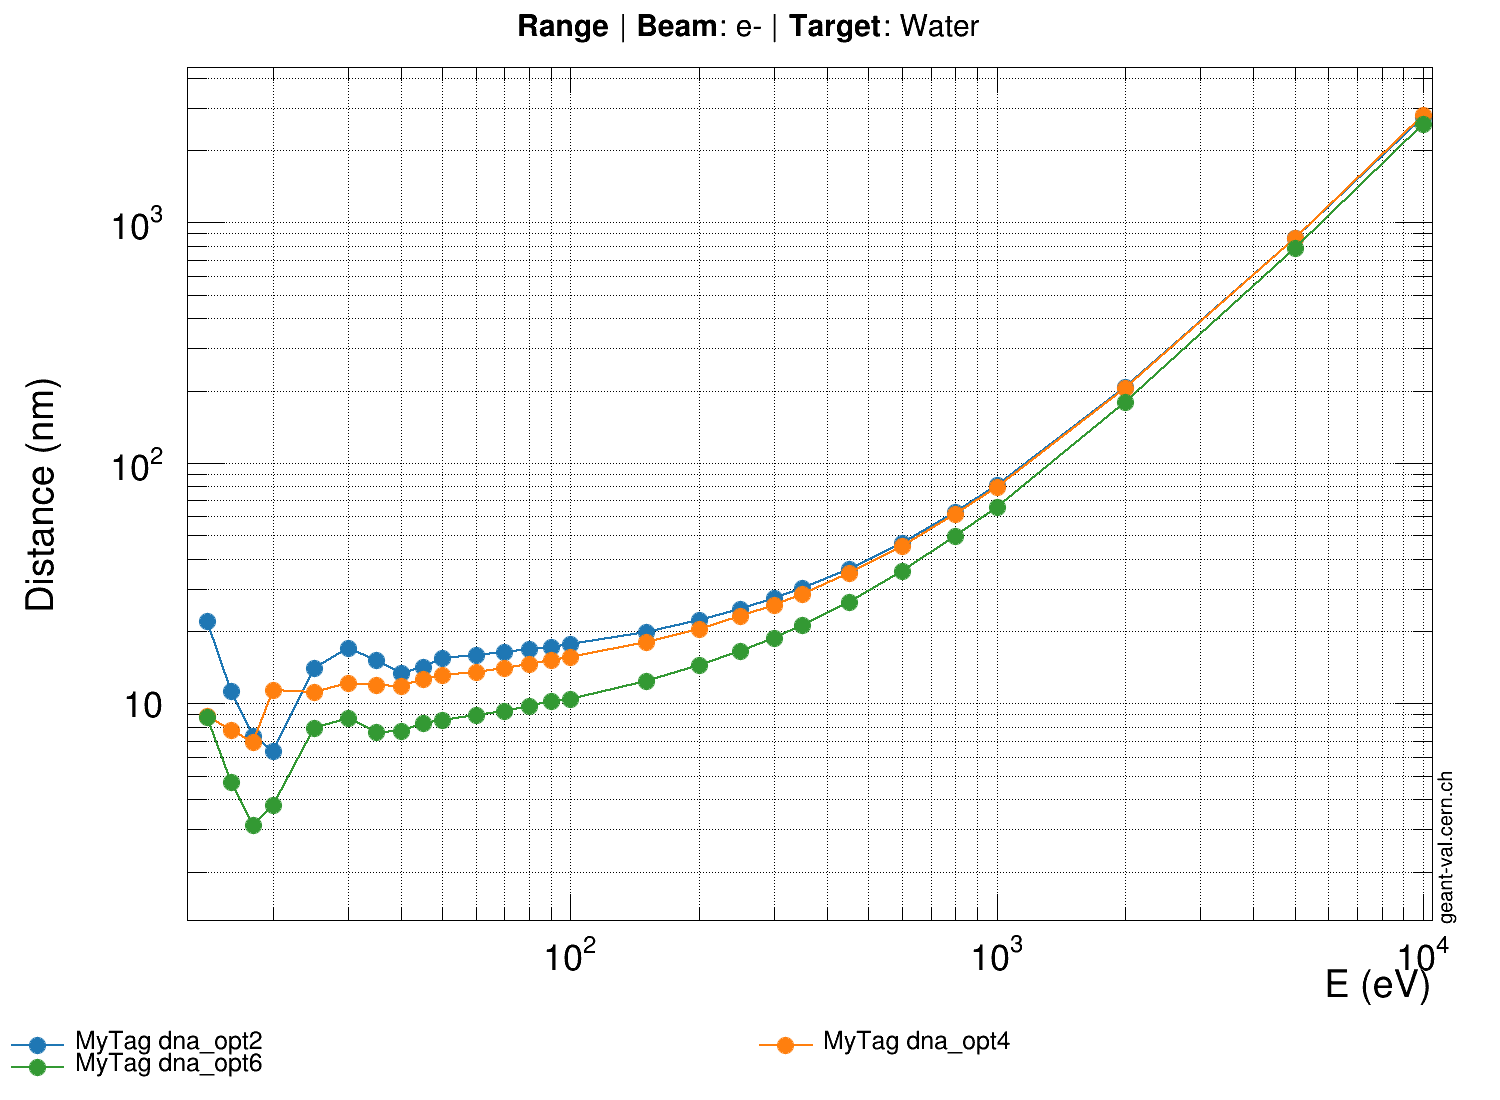
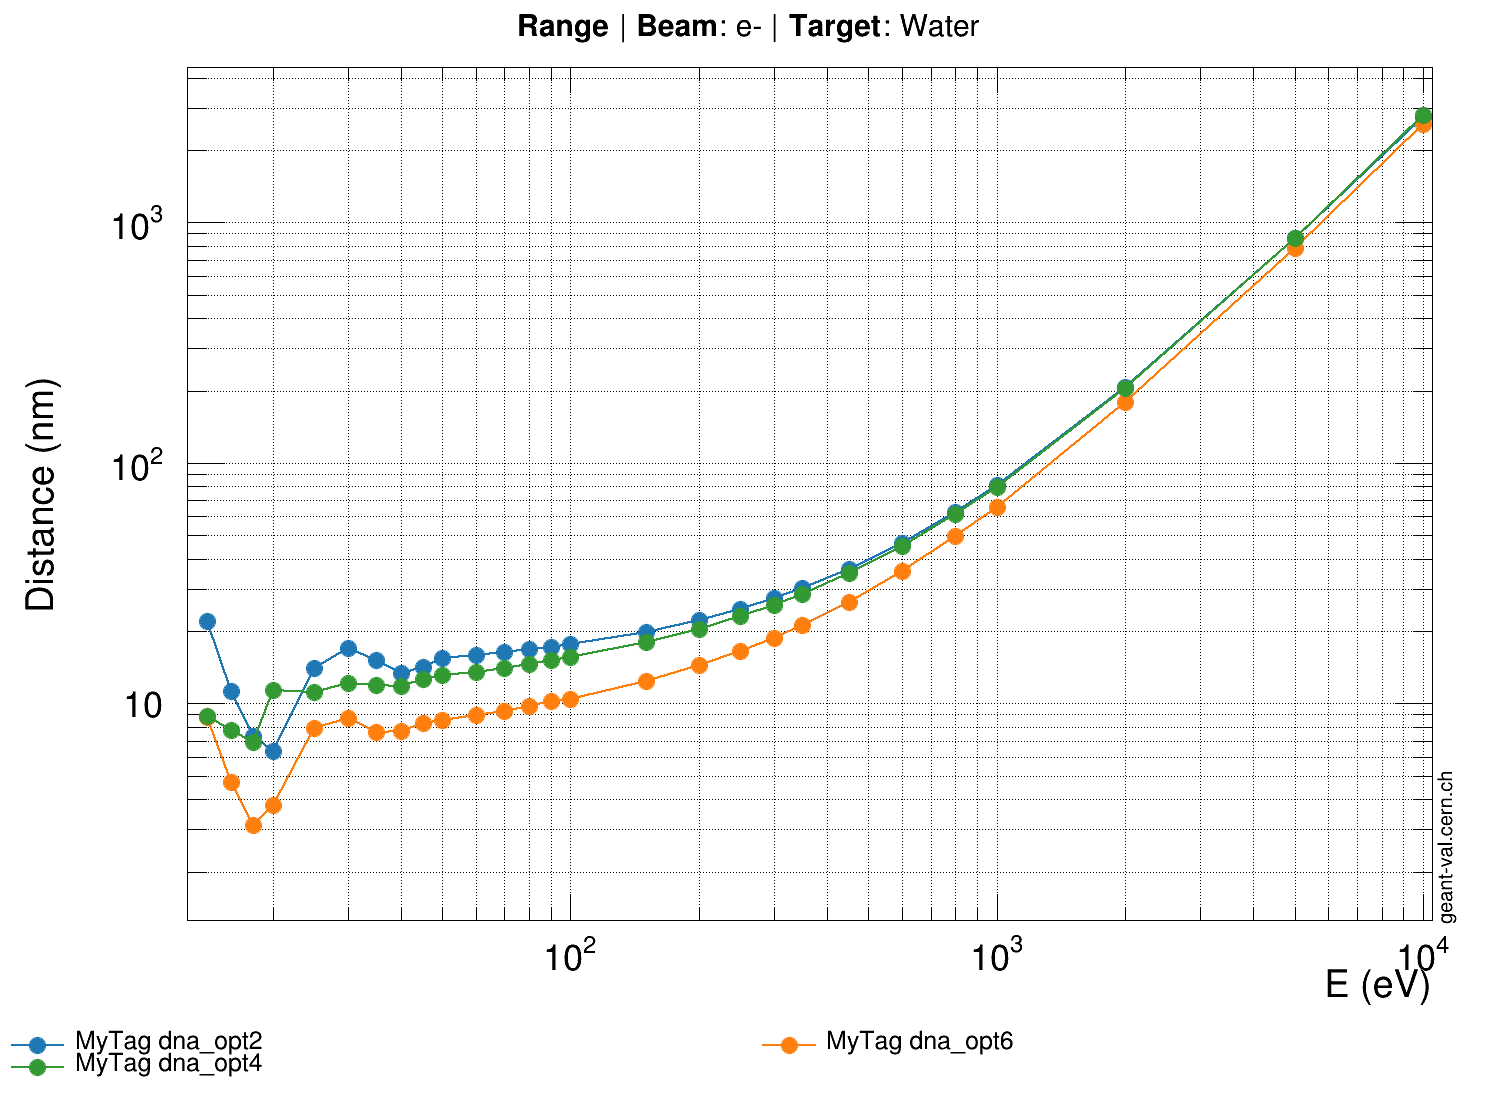
range/electron.conf/MyTag : mar. mai 23 10:33:33 CEST 2023

diff --git a/assets/OUTPUTJSON/geant4/MyTag/x86_64/range/electron.conf.c b/assets/OUTPUTJSON/geant4/MyTag/x86_64/range/electron.conf.c
@@ -7066,3 +7066,375 @@ double gvp_id-1_yerrors[27] = {
   0,
   0
 };
+// Tool:               GEANT4
+// Version:            MyTag
+// Model:              dna_opt2
+// Observable:         range
+// Target:             Water
+// Beam Particle:      e-
+// Secondary Particle: None
+
+double gvp_id-1_x[27] = {
+  14,
+  16,
+  18,
+  20,
+  25,
+  30,
+  35,
+  40,
+  45,
+  50,
+  60,
+  70,
+  80,
+  90,
+  100,
+  150,
+  200,
+  250,
+  300,
+  350,
+  450,
+  600,
+  800,
+  1000,
+  2000,
+  5000,
+  10000
+};
+double gvp_id-1_y[27] = {
+  22.0643,
+  11.2971,
+  7.31749,
+  6.35481,
+  14.0898,
+  17.0421,
+  15.1898,
+  13.3289,
+  14.1936,
+  15.4543,
+  15.9421,
+  16.301,
+  16.8259,
+  17.2374,
+  17.6726,
+  19.9058,
+  22.2142,
+  24.7345,
+  27.3083,
+  30.0551,
+  36.0697,
+  46.4907,
+  62.6379,
+  81.144,
+  207.773,
+  861.692,
+  2737.08
+};
+double gvp_id-1_xerrors[27] = {
+  0,
+  0,
+  0,
+  0,
+  0,
+  0,
+  0,
+  0,
+  0,
+  0,
+  0,
+  0,
+  0,
+  0,
+  0,
+  0,
+  0,
+  0,
+  0,
+  0,
+  0,
+  0,
+  0,
+  0,
+  0,
+  0,
+  0
+};
+double gvp_id-1_yerrors[27] = {
+  0,
+  0,
+  0,
+  0,
+  0,
+  0,
+  0,
+  0,
+  0,
+  0,
+  0,
+  0,
+  0,
+  0,
+  0,
+  0,
+  0,
+  0,
+  0,
+  0,
+  0,
+  0,
+  0,
+  0,
+  0,
+  0,
+  0
+};
+// Tool:               GEANT4
+// Version:            MyTag
+// Model:              dna_opt6
+// Observable:         range
+// Target:             Water
+// Beam Particle:      e-
+// Secondary Particle: None
+
+double gvp_id-1_x[27] = {
+  14,
+  16,
+  18,
+  20,
+  25,
+  30,
+  35,
+  40,
+  45,
+  50,
+  60,
+  70,
+  80,
+  90,
+  100,
+  150,
+  200,
+  250,
+  300,
+  350,
+  450,
+  600,
+  800,
+  1000,
+  2000,
+  5000,
+  10000
+};
+double gvp_id-1_y[27] = {
+  8.7741,
+  4.71167,
+  3.11963,
+  3.76778,
+  7.8888,
+  8.65568,
+  7.60383,
+  7.70513,
+  8.28526,
+  8.57108,
+  8.94606,
+  9.29176,
+  9.7569,
+  10.1868,
+  10.4344,
+  12.3822,
+  14.4185,
+  16.5493,
+  18.7715,
+  21.1122,
+  26.4834,
+  35.4813,
+  49.5204,
+  65.8762,
+  178.607,
+  784.021,
+  2556.7
+};
+double gvp_id-1_xerrors[27] = {
+  0,
+  0,
+  0,
+  0,
+  0,
+  0,
+  0,
+  0,
+  0,
+  0,
+  0,
+  0,
+  0,
+  0,
+  0,
+  0,
+  0,
+  0,
+  0,
+  0,
+  0,
+  0,
+  0,
+  0,
+  0,
+  0,
+  0
+};
+double gvp_id-1_yerrors[27] = {
+  0,
+  0,
+  0,
+  0,
+  0,
+  0,
+  0,
+  0,
+  0,
+  0,
+  0,
+  0,
+  0,
+  0,
+  0,
+  0,
+  0,
+  0,
+  0,
+  0,
+  0,
+  0,
+  0,
+  0,
+  0,
+  0,
+  0
+};
+// Tool:               GEANT4
+// Version:            MyTag
+// Model:              dna_opt4
+// Observable:         range
+// Target:             Water
+// Beam Particle:      e-
+// Secondary Particle: None
+
+double gvp_id-1_x[27] = {
+  14,
+  16,
+  18,
+  20,
+  25,
+  30,
+  35,
+  40,
+  45,
+  50,
+  60,
+  70,
+  80,
+  90,
+  100,
+  150,
+  200,
+  250,
+  300,
+  350,
+  450,
+  600,
+  800,
+  1000,
+  2000,
+  5000,
+  10000
+};
+double gvp_id-1_y[27] = {
+  8.85035,
+  7.78525,
+  6.90472,
+  11.3406,
+  11.2,
+  12.159,
+  11.9814,
+  11.8428,
+  12.5741,
+  13.1586,
+  13.5503,
+  14.0191,
+  14.5963,
+  15.1162,
+  15.56,
+  17.9816,
+  20.4016,
+  23.0433,
+  25.6957,
+  28.5854,
+  34.7389,
+  45.1673,
+  61.1019,
+  79.1591,
+  204.051,
+  859.145,
+  2792.98
+};
+double gvp_id-1_xerrors[27] = {
+  0,
+  0,
+  0,
+  0,
+  0,
+  0,
+  0,
+  0,
+  0,
+  0,
+  0,
+  0,
+  0,
+  0,
+  0,
+  0,
+  0,
+  0,
+  0,
+  0,
+  0,
+  0,
+  0,
+  0,
+  0,
+  0,
+  0
+};
+double gvp_id-1_yerrors[27] = {
+  0,
+  0,
+  0,
+  0,
+  0,
+  0,
+  0,
+  0,
+  0,
+  0,
+  0,
+  0,
+  0,
+  0,
+  0,
+  0,
+  0,
+  0,
+  0,
+  0,
+  0,
+  0,
+  0,
+  0,
+  0,
+  0,
+  0
+};
